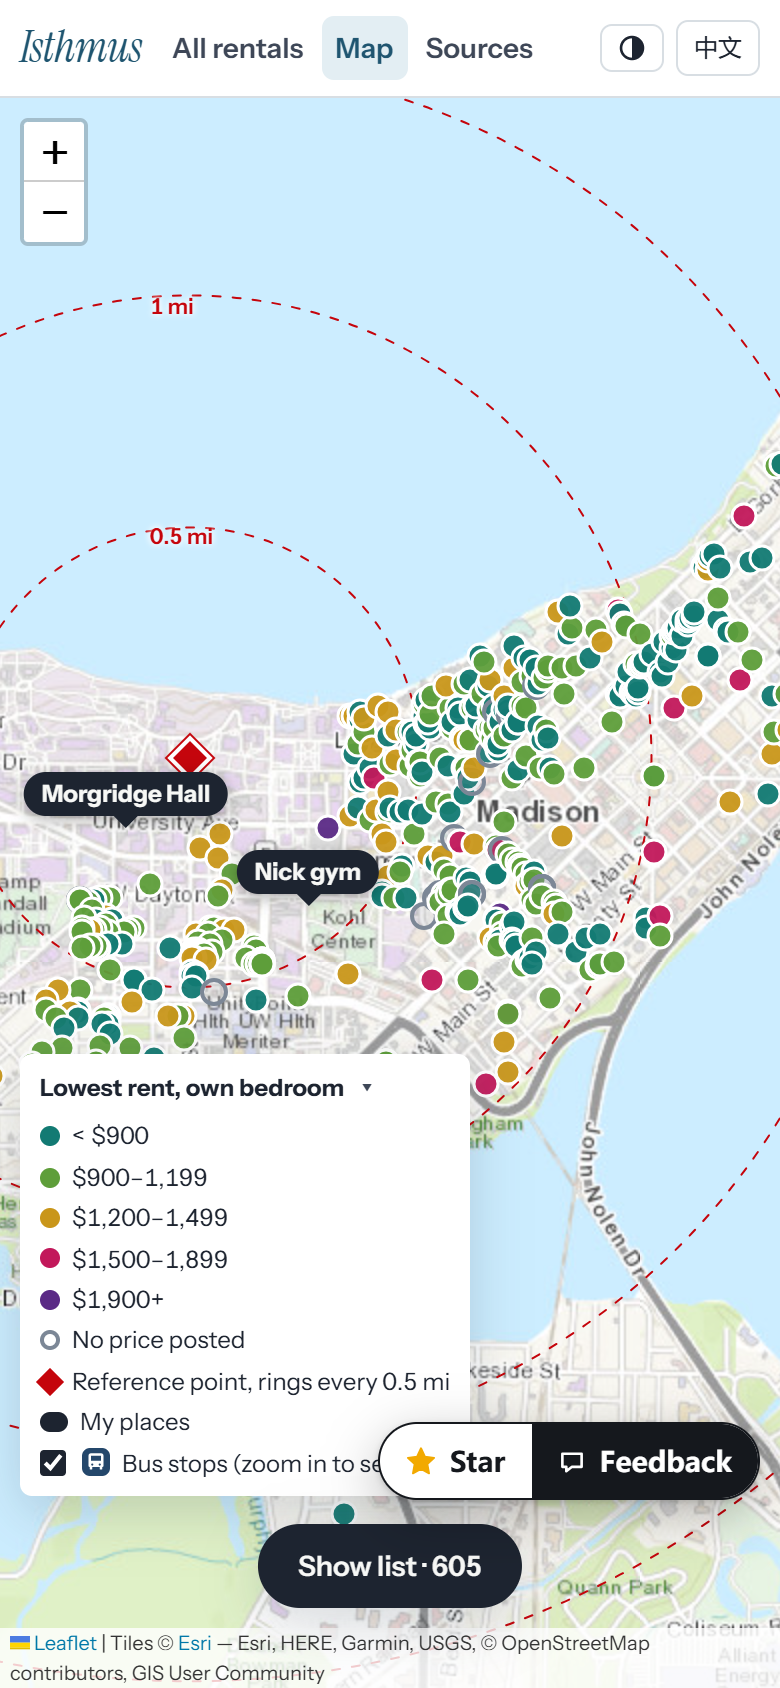
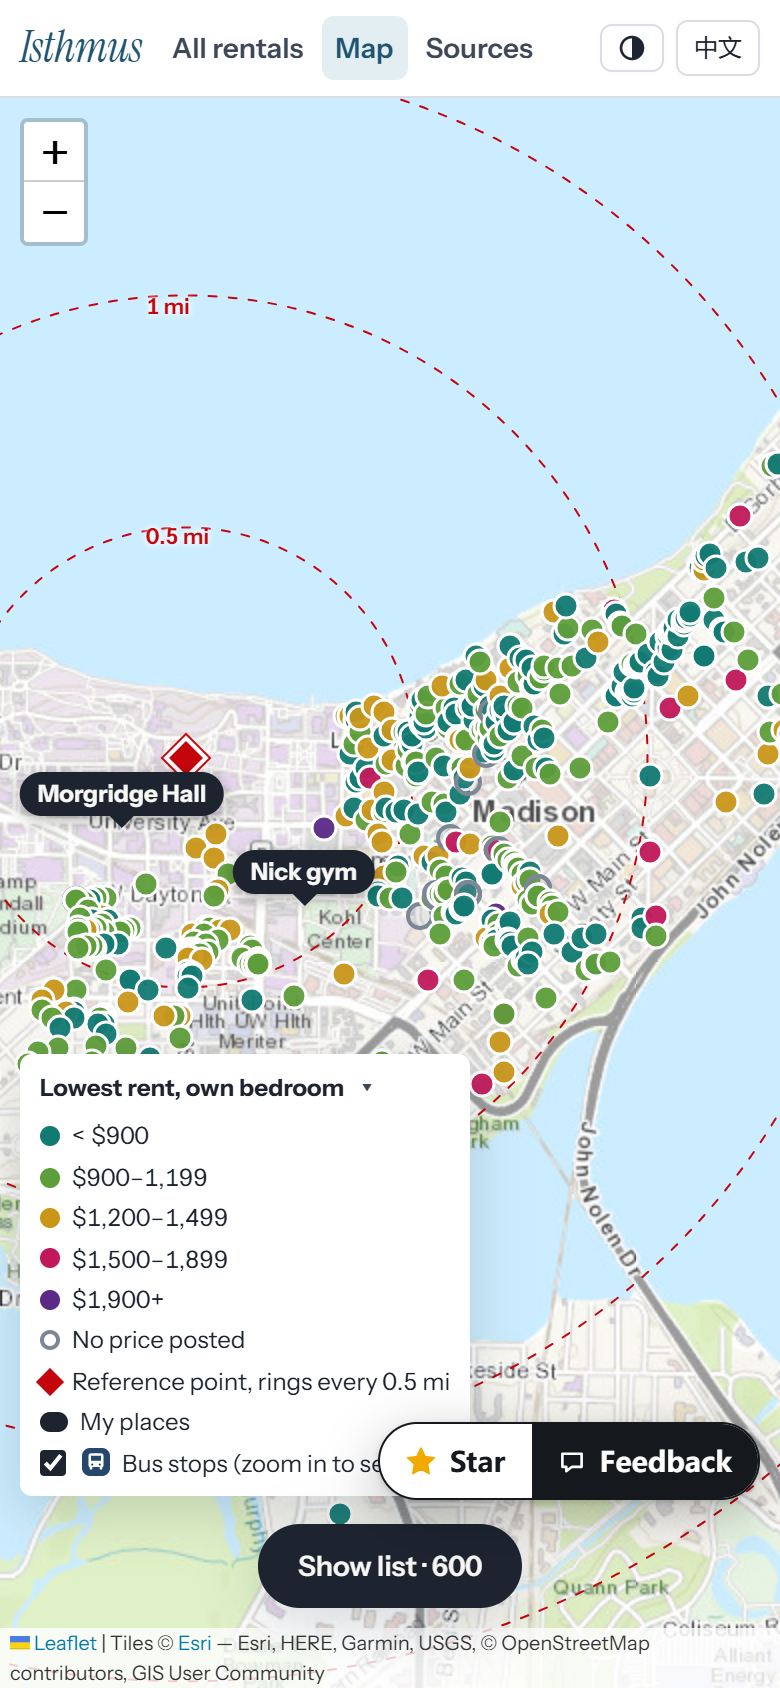
Update data 2026-10-08T01:07:18

diff --git a/README.md b/README.md
@@ -1,6 +1,6 @@
 # Madison campus rentals map
 
-A map of rentals within two miles of the UW–Madison campus: 605 properties, 2,988 units or floor plans and 67 landlords, collected on 2026-10-01. Listings come straight from landlord websites and the UW Off-Campus Housing service, and every value on the map says where it came from.
+A map of rentals within two miles of the UW–Madison campus: 600 properties, 2,959 units or floor plans and 67 landlords, collected on 2026-09-30. Listings come straight from landlord websites and the UW Off-Campus Housing service, and every value on the map says where it came from.
 
 **[Open the map](https://webgrs.github.io/madison-rentals/)**
 
@@ -29,7 +29,7 @@ Landlords quote rent either per person or for the whole unit, and listings often
 
 ## Sources and privacy
 
-- Listings: landlord websites and the UW Off-Campus Housing service, collected on 2026-10-01. Individual landlords who appear only on the UW list have their phone and email left out here; those properties link to the UW listing instead.
+- Listings: landlord websites and the UW Off-Campus Housing service, collected on 2026-09-30. Individual landlords who appear only on the UW list have their phone and email left out here; those properties link to the UW listing instead.
 - Bus stops and routes: Madison Metro Transit's GTFS feed.
 - Map: Leaflet, with tiles from Esri and map data © OpenStreetMap contributors.
 - The listings are served by an API that hands out one page or one property at a time and logs each request anonymously (which property was opened, which filters and search words were used) to improve the page and spot bulk copying. No names are stored, IP addresses only as a one-way hash, and no cookies are set; the coordinates of your saved places are never logged.
